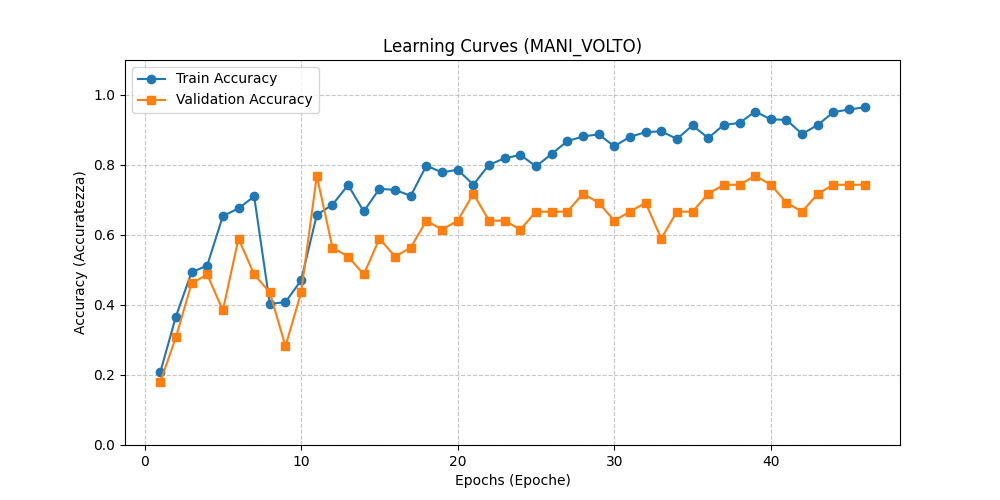
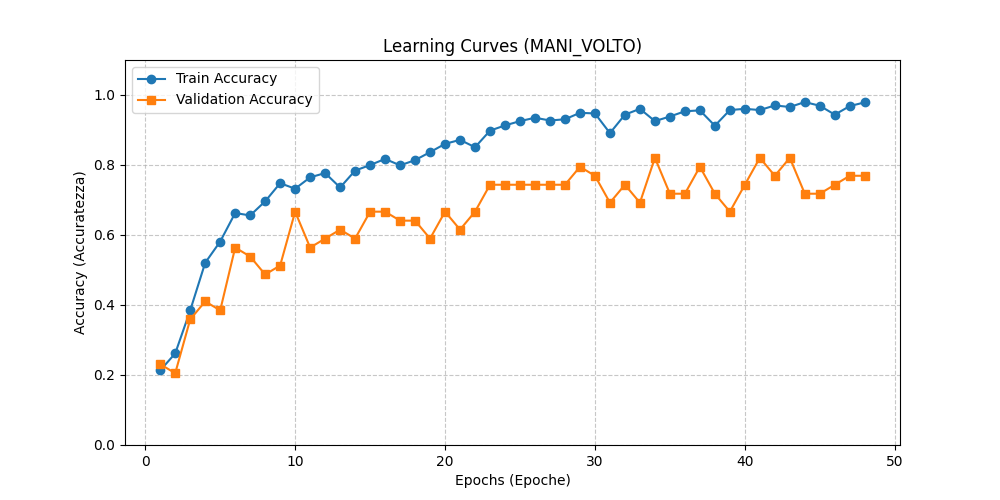
Aggiornati i grafici del tuning provando altre configurazioni (cambia poco anche qui, pero piu grafici piu meglio)

diff --git a/src/neural_network/tuning.py b/src/neural_network/tuning.py
@@ -22,18 +22,18 @@ sys.path.append(str(CURRENT_DIR))
 esperimenti_tuning = [
     {
         "version": "v3", "desc": "tuning_1", "modalita": "MANI_VOLTO",
-        "hidden_size": 128, "num_layers": 1, "learning_rate": 1e-3, "batch_size": 8, "patience": 15,
-        "label": "Tuning 1 (128x1, LR 1e-3)"
+        "hidden_size": 64, "num_layers": 1, "learning_rate": 1e-3, "batch_size": 8, "patience": 15, "dropout": 0.0,
+        "label": "Tuning 1 (64x1, Leggero)"
     },
     {
         "version": "v3", "desc": "tuning_2", "modalita": "MANI_VOLTO",
-        "hidden_size": 128, "num_layers": 2, "learning_rate": 5e-4, "batch_size": 8, "patience": 20,
-        "label": "Tuning 2 (128x2, LR 5e-4)"
+        "hidden_size": 256, "num_layers": 2, "learning_rate": 5e-4, "batch_size": 8, "patience": 20, "dropout": 0.0,
+        "label": "Tuning 2 (256x2, Pesante - Overfitting)"
     },
     {
         "version": "v3", "desc": "tuning_3", "modalita": "MANI_VOLTO",
-        "hidden_size": 256, "num_layers": 2, "learning_rate": 3e-4, "batch_size": 16, "patience": 20,
-        "label": "Tuning 3 (256x2, LR 3e-4)"
+        "hidden_size": 128, "num_layers": 2, "learning_rate": 1e-3, "batch_size": 8, "patience": 20, "dropout": 0.4,
+        "label": "Tuning 3 (128x2, Ottimale + Dropout 0.4)"
     },
 ]
 
